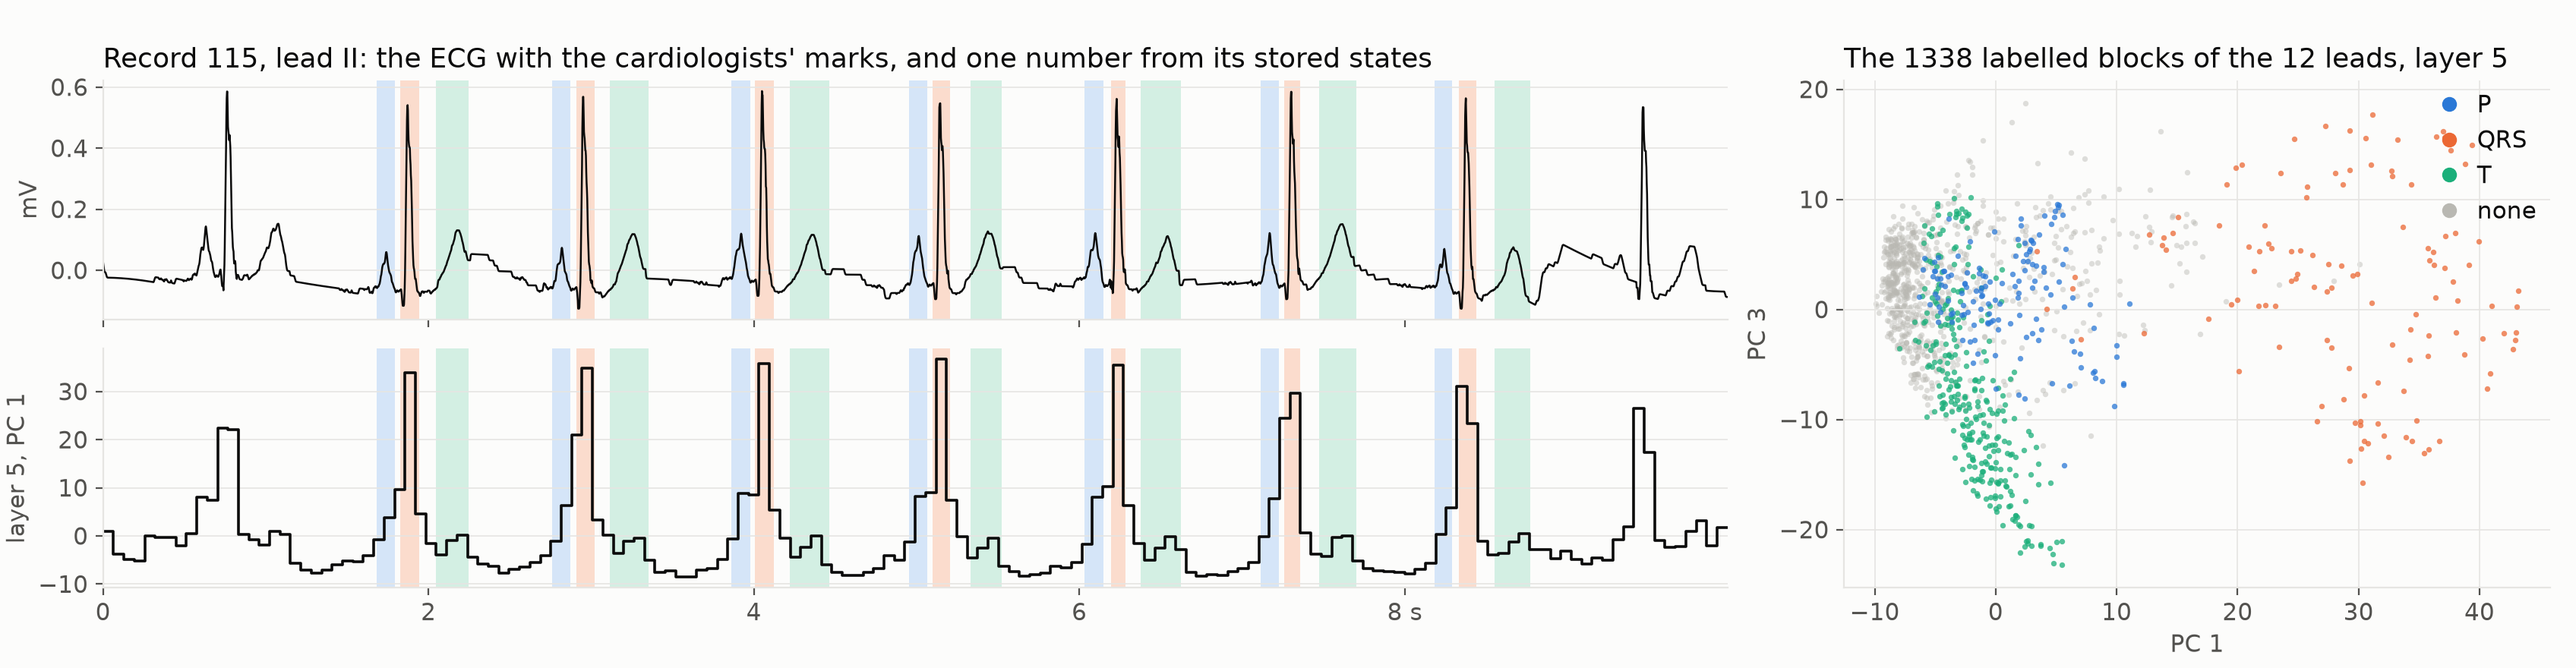
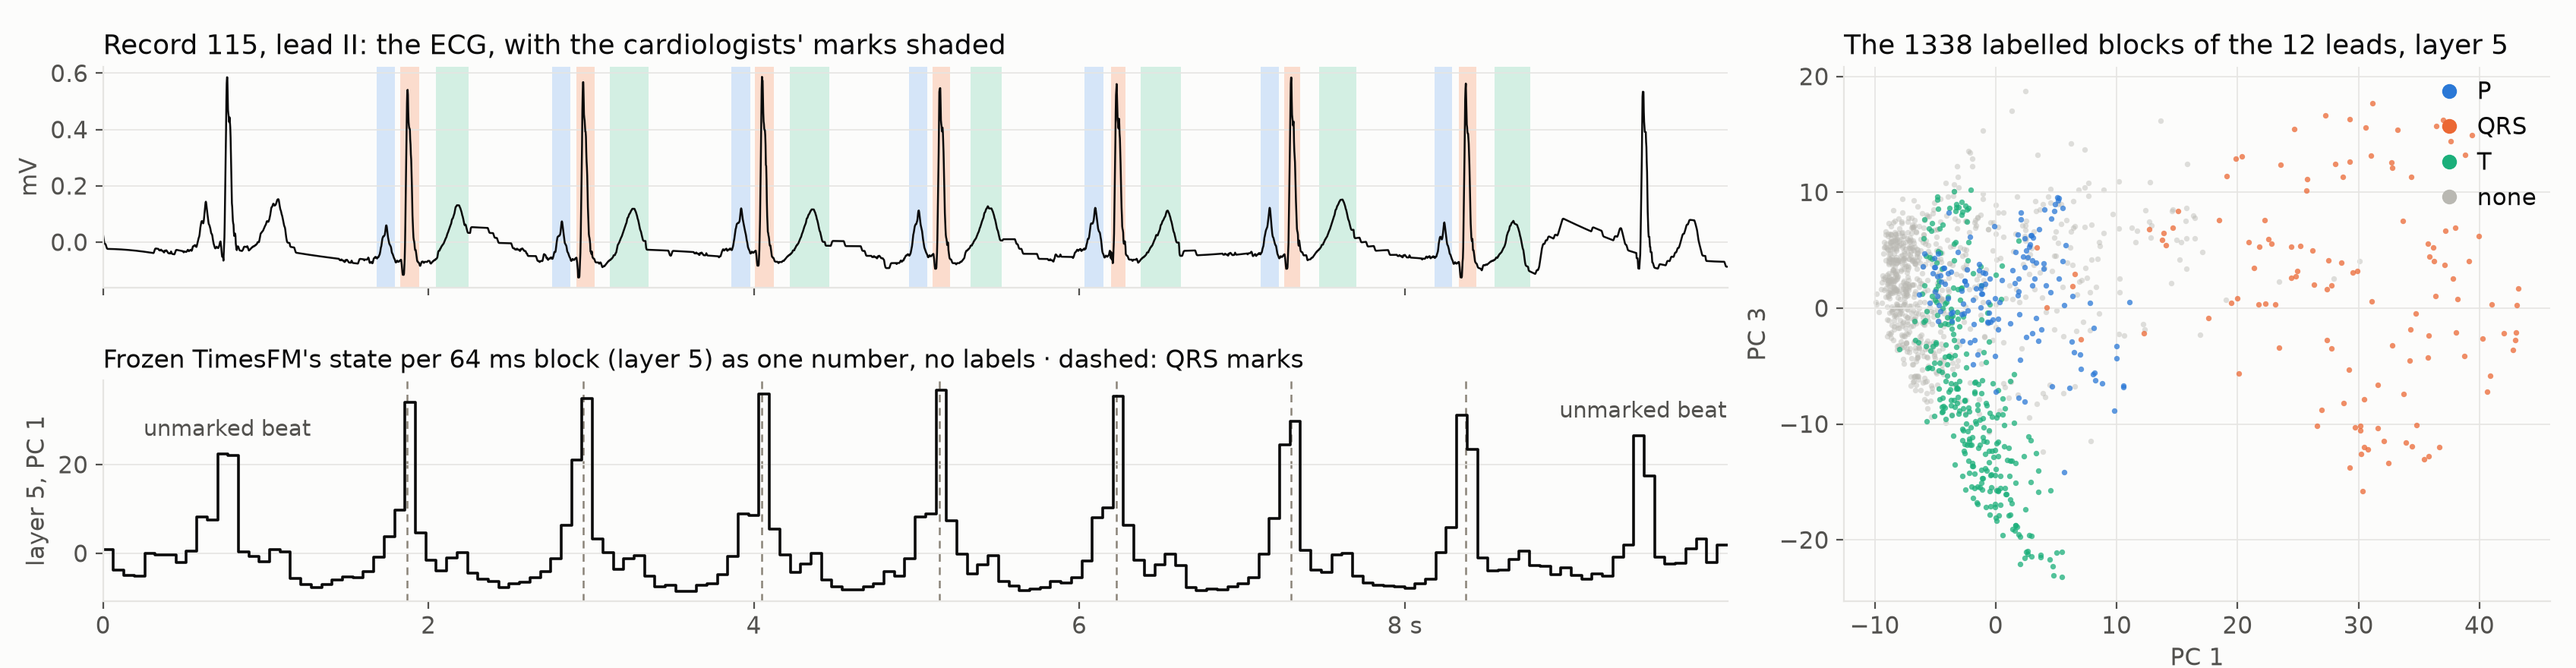
Slide 14 figure: no label shading in the state panel, only dashed QRS guides
The lower-left panel showed the cardiologists' shading copied from the ECG panel, which read as if TimesFM assigned labels. It now shows only the state line, dashed lines at the cardiologists' QRS marks and the two unmarked beats, under a title that says no labels were used.

diff --git a/scripts/deck_figures.py b/scripts/deck_figures.py
@@ -169,19 +169,26 @@ def states_figure(record: str = "115", lead: str = "ii") -> Path:
     tb = np.arange(157) * 32 / rec.fs
 
     fig = plt.figure(figsize=(16.96, 4.4), dpi=200)
-    gs = GridSpec(2, 2, width_ratios=[2.3, 1], height_ratios=[1, 1], wspace=0.10, hspace=0.12, left=0.04, right=0.99, top=0.88, bottom=0.12, figure=fig)
+    gs = GridSpec(2, 2, width_ratios=[2.3, 1], height_ratios=[1, 1], wspace=0.10, hspace=0.42, left=0.04, right=0.99, top=0.90, bottom=0.10, figure=fig)
     ax = fig.add_subplot(gs[0, 0])
     px = fig.add_subplot(gs[1, 0], sharex=ax)
+    marked = [s for w in rec.marks[lead] for s in (w.onset, w.peak, w.offset) if s is not None]
     for w in rec.marks[lead]:
         if w.onset is not None and w.offset is not None:
-            for axis in (ax, px):
-                axis.axvspan(w.onset / rec.fs, (w.offset + 1) / rec.fs, color=CLASS_TINTS[w.kind], lw=0, zorder=0)
+            ax.axvspan(w.onset / rec.fs, (w.offset + 1) / rec.fs, color=CLASS_TINTS[w.kind], lw=0, zorder=0)
+        if w.kind == "QRS":  # in the state panel, only thin guides at the cardiologists' QRS marks
+            px.axvline(w.peak / rec.fs, color="#8a8378", lw=0.9, ls=(0, (4, 3)), zorder=1)
     ax.plot(t, sig, color=INK, lw=0.9, zorder=2)
     ax.set_ylabel("mV", fontsize=11)
     ax.tick_params(labelbottom=False, labelsize=11)
     ax.grid(axis="x", visible=False)
-    ax.set_title(f"Record {record}, lead {lead.upper()}: the ECG with the cardiologists' marks, and one number from its stored states", loc="left", fontsize=13, color=INK)
+    ax.set_title(f"Record {record}, lead {lead.upper()}: the ECG, with the cardiologists' marks shaded", loc="left", fontsize=13, color=INK)
     px.step(tb, np.append(pc, pc[-1]), where="post", color=INK, lw=1.3, zorder=2)
+    px.set_title(f"Frozen TimesFM's state per 64 ms block (layer {layer}) as one number, no labels · dashed: QRS marks", loc="left", fontsize=12, color=INK)
+    for lo, hi in ((0, min(marked)), (max(marked) + 1, N_SAMPLES)):  # beats the cardiologists left unmarked
+        if hi - lo > rec.fs // 4:
+            r = lo + int(np.argmax(sig[lo:hi]))
+            px.annotate("unmarked beat", (r / rec.fs, pc[r // 32]), xytext=(0, 6), textcoords="offset points", ha="center", va="bottom", fontsize=10.5, color=INK2)
     px.set_ylabel(f"layer {layer}, PC {a + 1}", fontsize=11)
     px.tick_params(labelsize=11)
     px.set_xlim(0, N_SAMPLES / rec.fs)

diff --git a/docs/slides-outline.md b/docs/slides-outline.md
@@ -395,17 +395,19 @@ the head can train on them without running TimesFM again.
 
 **Figure** (`results/deck/fig_states.png`, made by `scripts/deck_figures.py` from
 `results/deck/states_pca_115_layer5.npz`, a 5-component projection computed once from the stored states of
-record 115 with `--states <downloaded 115.npy>`): left, record 115, lead II, the ECG with the cardiologists'
-P, QRS and T marks shaded, and under it principal component 1 of the layer-5 states, one value per 64 ms
-block; right, the 1338 labelled blocks of the 12 leads by principal components 1 and 3 (fitted on all
-1872 blocks; the 534 outside the marked spans have no mark and are not drawn), coloured by each block's
-majority mark: QRS far right, T at the bottom, P in between, unlabelled blocks on the left. Principal
-component 1 alone accounts for 73% of the variance between the four block types over all 12 leads (82% in
-lead II); layer 5 is also the layer the linear probe weighted most.
+record 115 with `--states <downloaded 115.npy>`): top left, record 115, lead II, the ECG with the
+cardiologists' P, QRS and T marks shaded; bottom left, frozen TimesFM's layer-5 state of each 64 ms block
+squeezed to one number (principal component 1), drawn as 156 flat steps because TimesFM gives one state per
+32-sample block, with no shading, only dashed lines at the cardiologists' QRS marks and "unmarked beat" at
+the first and last beats; right, the 1338 labelled blocks of the 12 leads by principal components 1 and 3
+(fitted on all 1872 blocks; the 534 outside the marked spans have no mark and are not drawn), coloured by
+each block's majority mark: QRS far right, T at the bottom, P in between, blocks with no wave on the left.
+Principal component 1 alone accounts for 73% of the variance between the four block types over all 12 leads
+(82% in lead II); layer 5 is also the layer the linear probe weighted most.
 
-**Caption:** What a stored state holds: principal component 1 is computed from the states alone, with no
-labels, and still spikes at every QRS, even at the first and last beats, which the cardiologists left
-unmarked. The colours are the marks, added afterwards.
+**Caption:** What a stored state holds: one number per 64 ms block from frozen TimesFM's layer-5 states,
+computed with no labels, jumps at every QRS, even at the first and last beats, which the cardiologists left
+unmarked. The shading, dashed lines and colours are the cardiologists' marks, added only for comparison.
 
 **Footer:** tests: stub backbone on the laptop; the real model on a T4 checks shapes, alignment and
 causality · checkpoint revision 43046b85 · decisions 50 to 53, 63 · figure: scripts/deck_figures.py.
